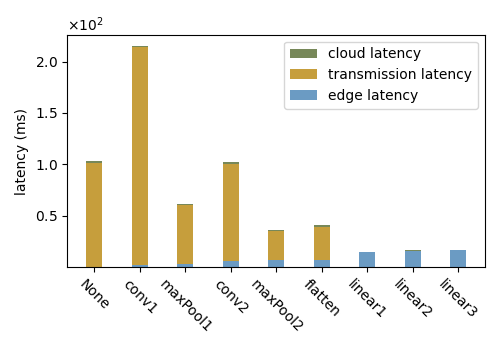
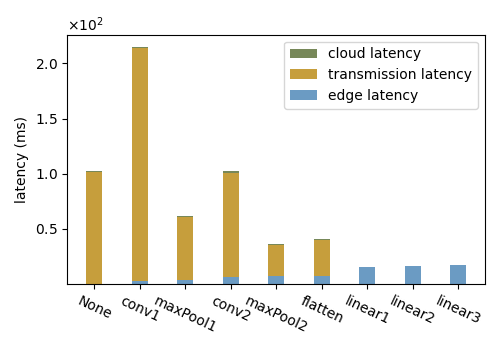
cuda 3 model

diff --git a/毕设3_中间变量传输/11_computation_time.py b/毕设3_中间变量传输/11_computation_time.py
@@ -169,7 +169,6 @@ def get_predict_data(save_flag = False):
 
 
 def get_predict_model():
-    mm = MinMaxScaler()
     path = "../res/computation_time.xls"
     # sheet_name = "mac_one"
     sheet_name = "cuda_all2"
@@ -192,18 +191,26 @@ def get_predict_model():
     # functionImg.getScatterImg(params2,times,"Params","Latency(ms)")
 
     save = False
-    # functionImg.myPolynomialRegression_single(flops2, times, "flops", "times(ms)", degree=1)
-    # functionImg.myPolynomialRegression_single(flops2, times, "flops", "times(ms)", degree=2)
-    # functionImg.myPolynomialRegression_single(flops2,times,"flops","times(ms)",degree=3)
-    # functionImg.myPolynomialRegression_single(flops2,times,"flops","times(ms)",degree=4)
-    # functionImg.myPolynomialRegression_single(flops2,times,"flops","times(ms)",degree=5)
+
 
     functionImg.myPolynomialRegression_single(flops2, times, "flops", "times(ms)", degree=3, save=save,
-                                              modelPath="../model/flops_all_time_cuda.m")
-    # #
+                                              modelPath="../model/flops_for_cuda3.m")
+
+
+
     ones = torch.ones(len(flops2))
-    x = np.c_[ones,flops2,params2]
-    functionImg.myPolynomialRegression(x,times,"y_real","y_predict",save=save,modelPath="../model/flops_params_all_time_cuda.m")
+    degree = 3
+    flops2_3 = functionImg.myTransform(flops2,degree=degree)
+    params2_3 = functionImg.myTransform(params2,degree=degree)
+    x = np.c_[ones, flops2_3, params2_3]
+    functionImg.myPolynomialRegression(x, times, "y_real", "y_predict", save=save,
+                                       modelPath="../model/flops_params_for_cuda3.m")
+
+
+
+
+
+
 
 
 
@@ -212,9 +219,8 @@ def compare_alexnet():
     device = "cuda" if torch.cuda.is_available() else "cpu"
 
     # flops_predict_model = joblib.load("../model/flops_time_cuda.m")
-    flops_params_predict_model = joblib.load("../model/flops_params_time_cuda.m")
+    flops_params_predict_model = joblib.load("../model/flops_params_for_cuda3.m")
 
-    # flops_params_predict_model = joblib.load("../model/flops_params_all_time_cuda.m")
 
     model = function.getDnnModel(1)
     model = model.to(device)
@@ -263,7 +269,7 @@ def compare_alexnet():
 
         print(f"flops: {flops_sum}  \t  params: {params_sum}  \t  computation time: {computation_time:.3f} (ms) \t "
               # f"flops predict : {functionImg.predictFlopsTime(flops_predict_model,flops_sum/10000):.3f} \t "
-              f"flops params predict : {functionImg.predictFlopsParamsTime(flops_params_predict_model,flops_sum/10000,params_sum/10000):.3f}")
+              f"flops params predict : {functionImg.predictFlopsParamsTime_for_cuda3(flops_params_predict_model,flops_sum/10000,params_sum/10000):.3f}")
         print("=============================================================")
         index += 1
 
@@ -329,10 +335,10 @@ if __name__ == '__main__':
     # get_predict_data(save_flag)
 
     """ 构建模型 """
-    get_predict_model()
+    # get_predict_model()
 
     """ 数据比较 """
-    # compare_alexnet()
+    compare_alexnet()
 
 
     # test_model(False)

diff --git a/毕设3_中间变量传输/functionImg.py b/毕设3_中间变量传输/functionImg.py
@@ -219,6 +219,61 @@ def myPolynomialRegression(x, y,labelx,labely,devide_n=1,save = False,modelPath 
     return lin_reg
 
 
+def myPolynomialRegression2(x, y,labelx,labely,devide_n=1,save = False,modelPath = None):
+    """
+        根据多项式回归模拟图
+    """
+    s = 50
+
+    X2 = myTransform(x, degree=2)
+    # X2 = x
+    lin_reg = LinearRegression()
+    lin_reg.fit(X2, y)
+
+    y_predict = lin_reg.predict(X2)
+    print("test MSE:", metrics.mean_squared_error(y_predict, y))
+    # print("斜率参数: ",lin_reg.coef_)
+    # print("截距参数: ",lin_reg.intercept_)
+    """
+    degree = 2
+    斜率参数: [0.00000000e+00 2.11090193e-04 5.44408375e-10]
+    截距参数: 40.11139070205547
+
+    degree = 3
+    斜率参数:  [0.00000000e+00 4.87227671e-04 2.36099771e-10 8.03935911e-17]
+    截距参数:  6.9646173709356844
+    """
+    fig = plt.figure(figsize=(8, 5))
+    # plt.scatter(x, y, s, c="g", alpha=0.5)
+    # plt.scatter(x, y_predict)
+    # plt.plot(np.sort(x), y_predict[np.argsort(x)], color='r')
+
+    plt.scatter(y, y_predict)
+
+
+
+    plt.ticklabel_format(style='sci', axis='x', scilimits=(0, 0), useMathText=True)
+    plt.ticklabel_format(style='sci', axis='y', scilimits=(0, 0), useMathText=True)
+
+    # 设置坐标轴范围
+    # n = devide_n
+    # y_n = devide_n
+    # max_X = np.max(x)
+    # max_Y = np.max(y)
+    # plt.xlim((0, max_X))
+    # plt.ylim((0, max_Y))
+
+    plt.xlabel(labelx)
+    plt.ylabel(labely)
+
+    plt.show()
+
+    if save:
+        joblib.dump(lin_reg,modelPath)
+
+    return lin_reg
+
+
 def myPolynomialRidgeRegression(x,y,labelx,labely,save = False,modelPath = None):
     """
         Ridge 多项式回归
@@ -342,3 +397,20 @@ def predictFlopsParamsTime(model,flops,params):
     input_features = np.c_[ones,flops,params]
     computation_time = model.predict(input_features)[0]
     return computation_time
+
+
+
+def predictFlopsParamsTime_for_cuda3(model,flops,params):
+    flops = np.array(flops)
+    params = np.array(params)
+    ones = torch.ones(1)
+
+    degree = 3
+    flops2_3 = myTransform(flops, degree=degree)
+    params2_3 = myTransform(params, degree=degree)
+    input_features = np.c_[ones, flops2_3, params2_3]
+
+    computation_time = model.predict(input_features)[0]
+    return computation_time
+
+

diff --git a/毕设3_中间变量传输/06_LinearPrediction.py b/毕设3_中间变量传输/06_LinearPrediction.py
@@ -34,7 +34,7 @@ def LinearPredict_mac():
 
 if __name__ == '__main__':
     path = "../res/linear_time.xls"
-    sheet_name = "cuda"
+    sheet_name = "mac"
 
     input_size = function.get_excel_data(path,sheet_name,"inputSize")
     output_size = function.get_excel_data(path,sheet_name,"outputSize")
@@ -48,8 +48,8 @@ if __name__ == '__main__':
     x2 = np.array(output_size)
     x = x1 * x2
     y = np.array(computation_time)
-    labelx = "input size * output size"
-    labely = "computation time(ms)"
+    labelx = "in_features * out_features"
+    labely = "computation latency(ms)"
 
 
     save_flag = False
@@ -59,13 +59,13 @@ if __name__ == '__main__':
         cuda:test MSE: 0.010853177534155763
         mac:test MSE: 2.497869087969718
     """
-    # functionImg.myLinearRegression(x,y,labelx,labely,save_flag,modelPath)
+    functionImg.myLinearRegression(x,y,labelx,labely)
 
     # functionImg.myPolynomialRegression(x,y)
 
-    LinearPredict_cuda()
-
-    LinearPredict_mac()
+    # LinearPredict_cuda()
+    #
+    # LinearPredict_mac()
 
 
 

diff --git a/毕设3_中间变量传输/part3.2模型划分.py b/毕设3_中间变量传输/part3.2模型划分.py
@@ -48,6 +48,7 @@ if __name__ == '__main__':
     # print(times)
 
 
+    # plt.figure(figsize=(12,3.5))
     plt.figure(figsize=(5,3.5))
     N = len(index)
     ind = np.arange(N)  # the x locations for the groups
@@ -64,7 +65,7 @@ if __name__ == '__main__':
 
 
     plt.xticks(ind, list_6)
-    plt.xticks(rotation=-45)
+    plt.xticks(rotation=-25)
 
 
 
